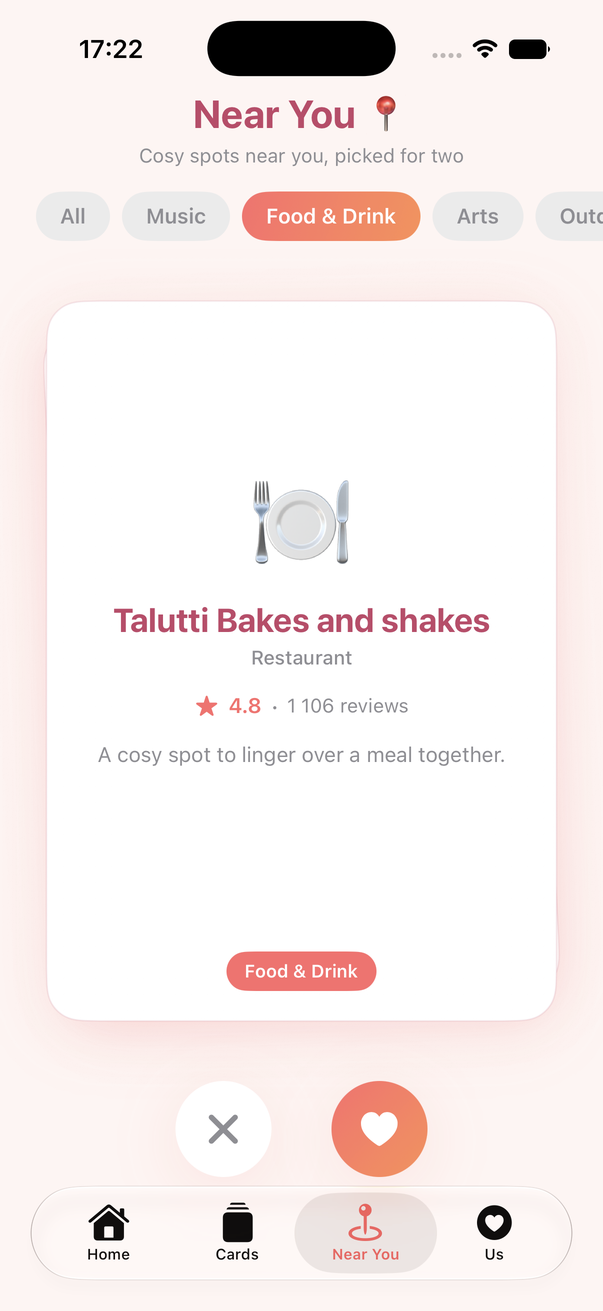
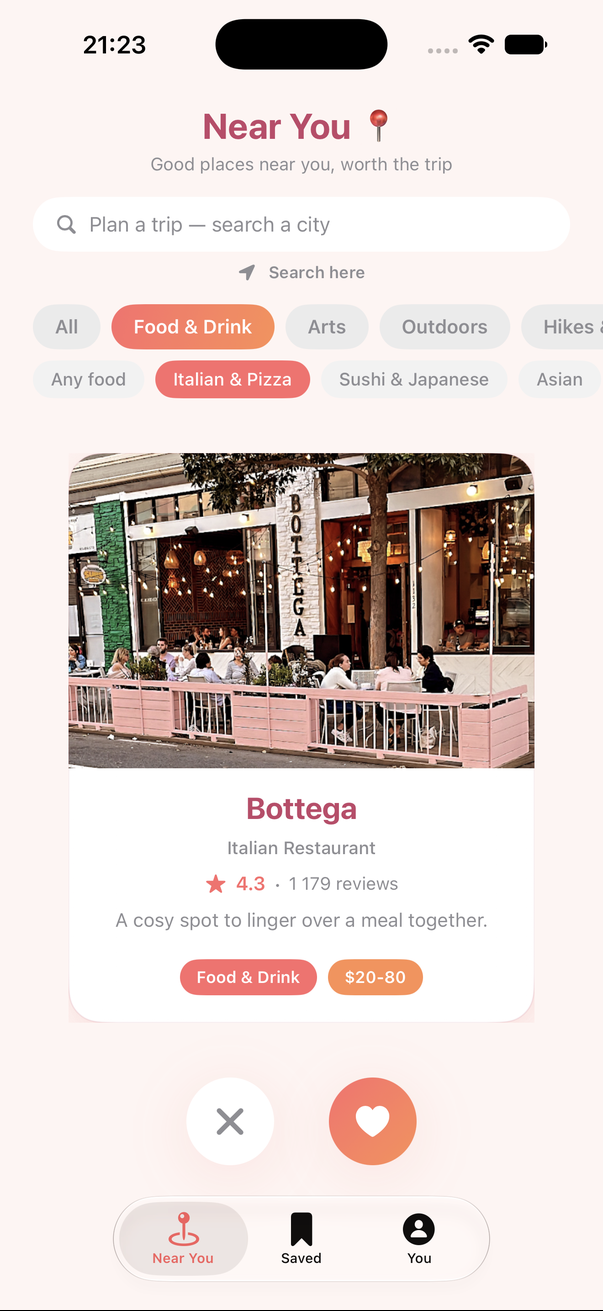
Point the homepage at the places app we now actually ship
The site still sold a couples app: 'Date ideas for couples who actually go',
a hero card showing a date idea, and a first feature that opened with mutual
matching. 1.2.0 leads with places and works alone, so the page was promising
something the download no longer is.

Hero now leads on places and the price band, which is the thing Maps does not
show and the reason to install. Couples move to feature 04, framed as optional.

Screenshots were from 18 July and showed the pre-pivot UI. Regenerated from the
1.2.0 build; dropped swipe-match, home-spark and us-story, which no page
references any more.

diff --git a/site/index.html b/site/index.html
@@ -11,16 +11,16 @@
 </script>
 <meta charset="UTF-8">
 <meta name="viewport" content="width=device-width, initial-scale=1.0">
-<title>iLovu — Date Ideas & Date Night for Couples</title>
-<meta name="description" content="Date ideas for couples who want more moments, less pressure. Swipe date night ideas together, match on what you both love, and turn it into a memory you'll keep.">
+<title>iLovu — Good Places Near You &amp; Date Ideas</title>
+<meta name="description" content="Find good places near you — restaurants, bars, cafés, viewpoints and trails — with what they cost before you go. Save the ones you like and turn one into a real plan. Alone or with someone.">
 
 <link rel="icon" type="image/x-icon" href="favicon.ico">
 <link rel="icon" type="image/png" sizes="32x32" href="favicon-32.png">
 <link rel="icon" type="image/png" sizes="16x16" href="favicon-16.png">
 <link rel="apple-touch-icon" sizes="180x180" href="apple-touch-icon.png">
 
-<meta property="og:title" content="iLovu — Show it. Don't just say it.">
-<meta property="og:description" content="The couples app for more moments, less pressure. One real date a month is all it takes.">
+<meta property="og:title" content="iLovu — Good places near you, worth going to.">
+<meta property="og:description" content="A short deck of real places near you, with what they cost. Save what you like, then actually go.">
 <meta property="og:type" content="website">
 <meta property="og:url" content="https://ilovu.io">
 <link rel="canonical" href="https://ilovu.io/">
@@ -32,7 +32,7 @@
   "name": "iLovu",
   "operatingSystem": "iOS",
   "applicationCategory": "LifestyleApplication",
-  "description": "Date ideas for couples who actually go. Swipe date ideas and local spots together, match on what you both love, and turn it into a real date and a memory you keep.",
+  "description": "Good places near you, worth going to. Swipe real local spots — restaurants, bars, cafés, viewpoints and trails — see what they cost before you go, save the ones you like, and turn one into a plan. Works on your own, or shared with a partner.",
   "url": "https://ilovu.io",
   "downloadUrl": "https://apps.apple.com/app/id6781237573",
   "offers": { "@type": "Offer", "price": "0", "priceCurrency": "USD" },
@@ -236,13 +236,13 @@
   </nav>
 
   <header class="hero">
-    <div class="badge"><span class="dot"></span> Date ideas for couples — more moments, less pressure</div>
+    <div class="badge"><span class="dot"></span> Real places near you — with what they cost</div>
     <h1>
-      <span class="line">Date ideas for couples</span>
-      <span class="line">who actually <em>go</em>.</span>
+      <span class="line">Good places near you,</span>
+      <span class="line">worth <em>going to</em>.</span>
     </h1>
-    <p class="kicker">Show it. Don't just say it. 💕</p>
-    <p class="sub">iLovu helps couples actually <em>do</em> the dates they keep meaning to. Swipe <strong>date night ideas</strong> together, match on what you both love, and turn it into a memory you'll keep.</p>
+    <p class="kicker">Stop scrolling. Go somewhere. 💛</p>
+    <p class="sub">Not a list of everything around you — a short deck of real spots, with <strong>what they cost</strong>, so you can decide in a minute instead of reading forty reviews. Save the ones you like and turn one into a plan. On your own, or with someone.</p>
 
     <a class="appstore-btn" href="https://apps.apple.com/app/id6781237573" aria-label="Download iLovu on the App Store">
       <svg viewBox="0 0 24 24" width="22" height="22" fill="currentColor" aria-hidden="true"><path d="M16.365 1.43c0 1.14-.417 2.2-1.11 2.99-.75.86-1.98 1.52-3.16 1.43-.14-1.1.42-2.28 1.08-3.02.75-.85 2.06-1.48 3.19-1.4zM20.7 17.14c-.58 1.34-.86 1.94-1.61 3.13-1.05 1.66-2.53 3.73-4.36 3.74-1.63.02-2.05-1.06-4.26-1.05-2.21.01-2.67 1.07-4.3 1.05-1.83-.02-3.23-1.88-4.28-3.54-2.94-4.66-3.25-10.13-1.43-13.04 1.29-2.07 3.33-3.28 5.25-3.28 1.95 0 3.18 1.07 4.79 1.07 1.57 0 2.52-1.07 4.78-1.07 1.7 0 3.51.93 4.8 2.53-4.22 2.31-3.53 8.34.83 10.46z"/></svg>
@@ -252,12 +252,12 @@
     <div class="stage">
       <div class="phone">
         <div class="screen">
-          <div class="card-emoji">🌹</div>
-          <div class="card-title">Recreate Your First Date</div>
-          <div class="card-desc">Same meal, same music, same nervous butterflies — relive the night it all started.</div>
+          <div class="card-emoji">🍝</div>
+          <div class="card-title">Bottega</div>
+          <div class="card-desc">Italian restaurant · A cosy spot to linger over a meal.</div>
           <div class="card-tags">
-            <span class="tag coral">Quick · 30 min</span>
-            <span class="tag orange">Free</span>
+            <span class="tag coral">€20–40</span>
+            <span class="tag orange">★ 4.3 · 1,179 reviews</span>
           </div>
           <div class="swipe-row">
             <div class="swipe-btn no">✕</div>
@@ -270,23 +270,23 @@
 
   <section class="features">
     <p class="feat-kicker">How iLovu works</p>
-    <h2 class="feat-title">Everything you need to <em>actually go</em>.</h2>
+    <h2 class="feat-title">Decide in a minute, then <em>actually go</em>.</h2>
 
     <div class="feat-row">
-      <div class="feat-shot"><img src="shots/swipe-match.png" alt="Swipe and match on date ideas" loading="lazy"></div>
+      <div class="feat-shot"><img src="shots/near-you.png" alt="A deck of good places near you" loading="lazy"></div>
       <div class="feat-text">
         <span class="feat-num">01</span>
-        <h3>Swipe &amp; match</h3>
-        <p>Browse date ideas together, just like swiping. When you both like the same one, it's a match — and it becomes a plan you'll actually keep.</p>
+        <h3>Find somewhere to go</h3>
+        <p>Swipe through real places near you — restaurants, bars, cafés, viewpoints, hikes and trails — picked for being worth the trip, not just for being close. Filter for whatever you're in the mood for.</p>
       </div>
     </div>
 
     <div class="feat-row reverse">
-      <div class="feat-shot"><img src="shots/near-you.png" alt="Discover local restaurants and spots" loading="lazy"></div>
+      <div class="feat-shot"><img src="shots/venue-detail.png" alt="A venue with its price range, hours and reviews" loading="lazy"></div>
       <div class="feat-text">
         <span class="feat-num">02</span>
-        <h3>Discover spots near you</h3>
-        <p>Real local restaurants, bars, and cafés — hand-picked, highly rated, and ready to book. Find places for two you'd never have stumbled on.</p>
+        <h3>Know what it costs</h3>
+        <p>Every place shows its real price range — not vague symbols — alongside photos, this week's opening hours and what people actually said. Nothing surprises you at the table.</p>
       </div>
     </div>
 
@@ -294,22 +294,22 @@
       <div class="feat-shot"><img src="shots/plan-mission.png" alt="Plan the date with a checklist" loading="lazy"></div>
       <div class="feat-text">
         <span class="feat-num">03</span>
-        <h3>Turn it into a real date</h3>
-        <p>Every match becomes a Mission — pick a date and time, set a budget, tick off a simple checklist. No planning stress, just a plan.</p>
+        <h3>Save it, then make it happen</h3>
+        <p>Anything you like is saved to your list, waiting for a free evening. Turn one into a plan with a time, a budget and a checklist — then directions or a call in one tap. Travelling? Search any city before you get there.</p>
       </div>
     </div>
 
     <div class="feat-row reverse">
-      <div class="feat-shot"><img src="shots/us-story.png" alt="Your shared story and memories" loading="lazy"></div>
+      <div class="feat-shot"><img src="shots/invite-plan.png" alt="Send someone the plan before they install" loading="lazy"></div>
       <div class="feat-text">
         <span class="feat-num">04</span>
-        <h3>Keep the memory</h3>
-        <p>Snap a proof photo when you go — saved forever in a private Memory Vault that's just for the two of you. Plus daily questions — and the famous <a href="/36-questions" style="color:var(--rose);font-weight:600;">36 questions that lead to love</a> — to stay close between dates.</p>
+        <h3>Bring someone, if you want</h3>
+        <p>Send anyone a plan and they see where you're going before they install anything. Connect with a partner and it turns shared — places you both like rise to the top, proof photos land in a private Memory Vault, and there are daily questions and the famous <a href="/36-questions" style="color:var(--rose);font-weight:600;">36 questions that lead to love</a> to stay close between plans.</p>
       </div>
     </div>
 
     <div class="feat-cta">
-      <p>One real date a month. No pressure, no guilt.</p>
+      <p>Free to start. No pressure, no guilt, no streaks to keep.</p>
       <a class="appstore-btn" href="https://apps.apple.com/app/id6781237573" aria-label="Download iLovu on the App Store">
         <svg viewBox="0 0 24 24" width="22" height="22" fill="currentColor" aria-hidden="true"><path d="M16.365 1.43c0 1.14-.417 2.2-1.11 2.99-.75.86-1.98 1.52-3.16 1.43-.14-1.1.42-2.28 1.08-3.02.75-.85 2.06-1.48 3.19-1.4zM20.7 17.14c-.58 1.34-.86 1.94-1.61 3.13-1.05 1.66-2.53 3.73-4.36 3.74-1.63.02-2.05-1.06-4.26-1.05-2.21.01-2.67 1.07-4.3 1.05-1.83-.02-3.23-1.88-4.28-3.54-2.94-4.66-3.25-10.13-1.43-13.04 1.29-2.07 3.33-3.28 5.25-3.28 1.95 0 3.18 1.07 4.79 1.07 1.57 0 2.52-1.07 4.78-1.07 1.7 0 3.51.93 4.8 2.53-4.22 2.31-3.53 8.34.83 10.46z"/></svg>
         <span><span class="small">Download on the</span><span class="big">App Store</span></span>
@@ -319,7 +319,7 @@
 </div>
 
 <footer>
-  <p style="font-family:'Fraunces',serif; font-style:italic; font-size:16px; color:var(--rose); margin-bottom:10px;">One real date a month. No pressure, no guilt.</p>
+  <p style="font-family:'Fraunces',serif; font-style:italic; font-size:16px; color:var(--rose); margin-bottom:10px;">Somewhere good is closer than you think.</p>
   <p style="margin-bottom:8px;"><a href="/date-ideas" style="color:var(--rose); text-decoration:none;">Date Ideas</a> &nbsp;·&nbsp; <a href="/36-questions" style="color:var(--rose); text-decoration:none;">36 Questions</a> &nbsp;·&nbsp; <a href="/would-you-rather-couples" style="color:var(--rose); text-decoration:none;">Would You Rather</a></p>
   <p style="margin-bottom:8px;"><a href="privacy.html" style="color:var(--rose); text-decoration:none;">Privacy</a> &nbsp;·&nbsp; <a href="terms.html" style="color:var(--rose); text-decoration:none;">Terms</a> &nbsp;·&nbsp; <a href="support.html" style="color:var(--rose); text-decoration:none;">Support</a></p>
   <p style="margin-bottom:8px;">
